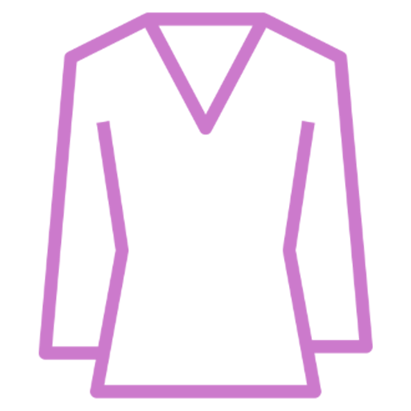
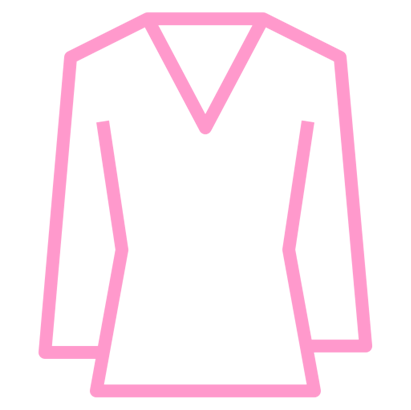
update assets colour

Changed region(s): [[0.0876, 0.0293, 0.9051, 0.9659]]

diff --git a/frontend/src/components/ClothesSelection/ClothesSelection.jsx b/frontend/src/components/ClothesSelection/ClothesSelection.jsx
@@ -7,7 +7,7 @@ import top from "./../../assets/tshirt.png";
 import bottom from "./../../assets/pants.png";
 import onepiece from "./../../assets/jumpsuit.png";
 import shoes from "./../../assets/shoes.png";
-import cropTop from "./../../assets/CropTop.png";
+import cropTop from "./../../assets/crop-top.png";
 import shirt from "./../../assets/shirt.png";
 import blouse from "./../../assets/blouse.png";
 import shorts from "./../../assets/shorts.png";
